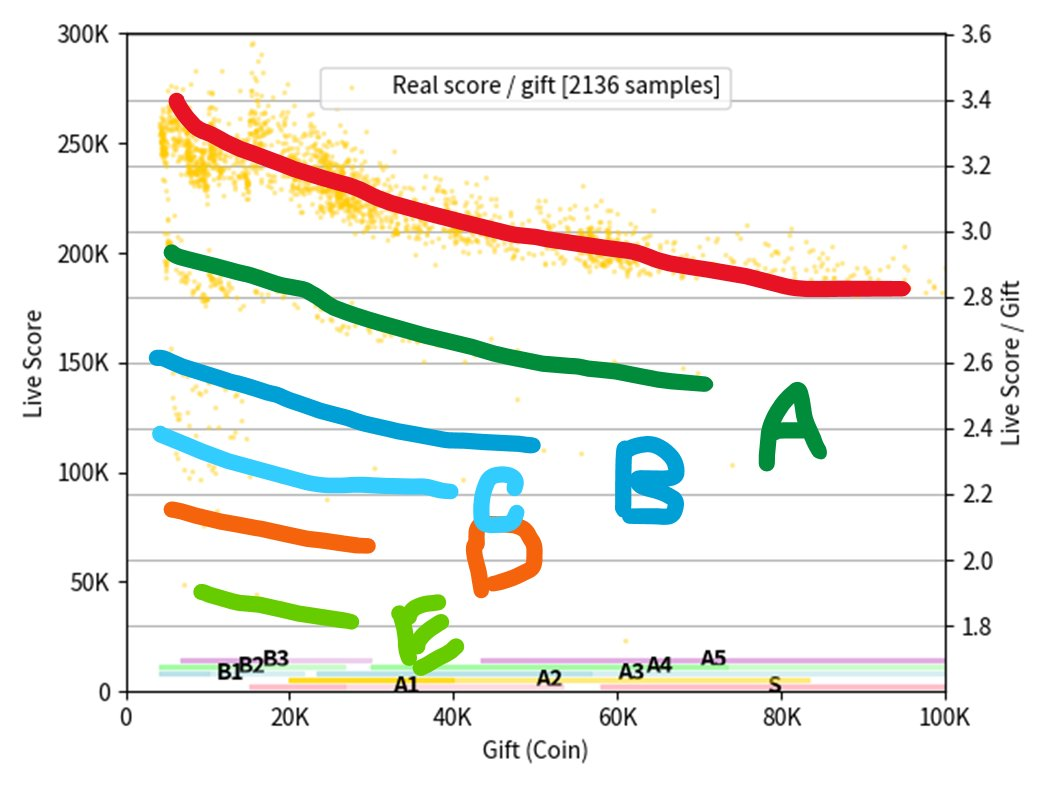
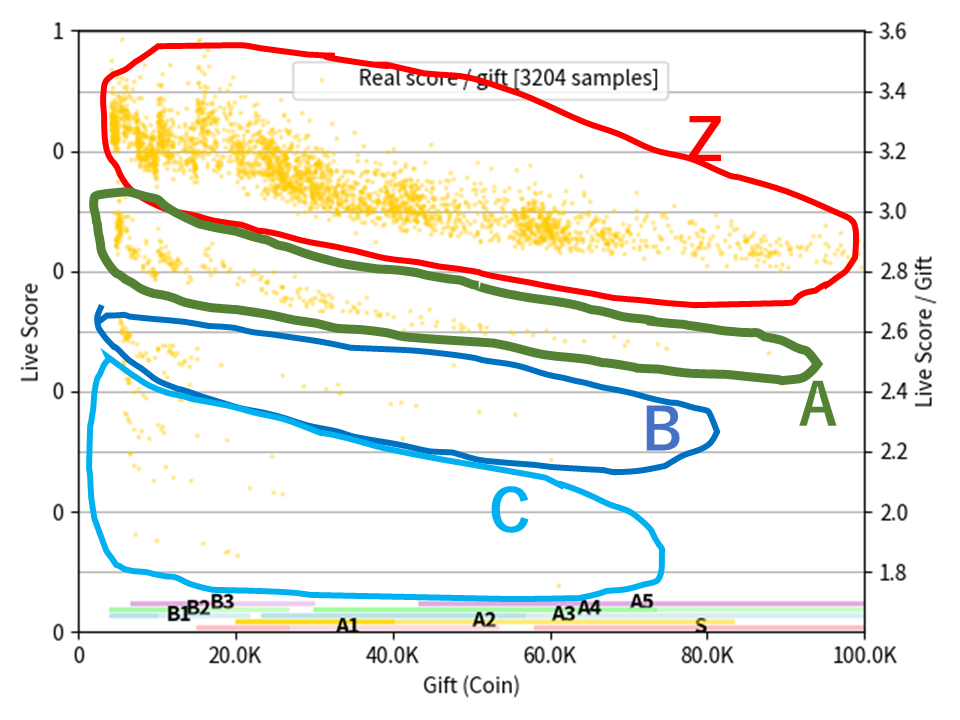
scat-group: 画像に，Zを追加，DE を削除

diff --git a/scat-score.html b/scat-score.html
@@ -48,8 +48,7 @@
 	<ul>
 		<li>赤線の周辺にある黄色点を「跳ねている」グループと呼びます．Z グループとします．</li>
 		<li>赤線より下にあるグループを「詰まっている」グループと呼びます．
-			また，上からAグループ，Bグループ，... とします．</li>
-		<li>B, C, D, E グループをまとめて，B以下グループと呼びます．</li>
+			また，上からAグループ，Bグループ，C グループとします．</li>
 	</ul>
 
 <span class="sub-title">要約</span>
